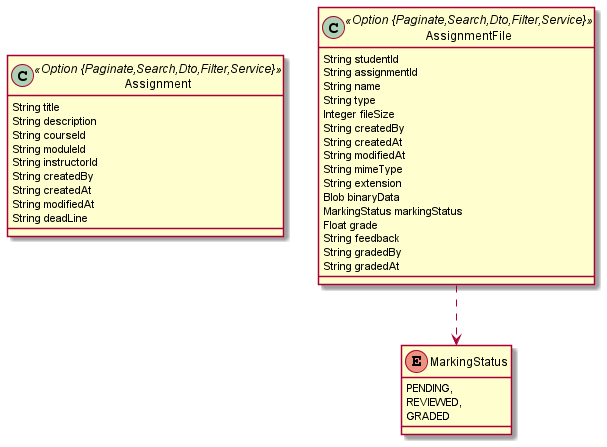
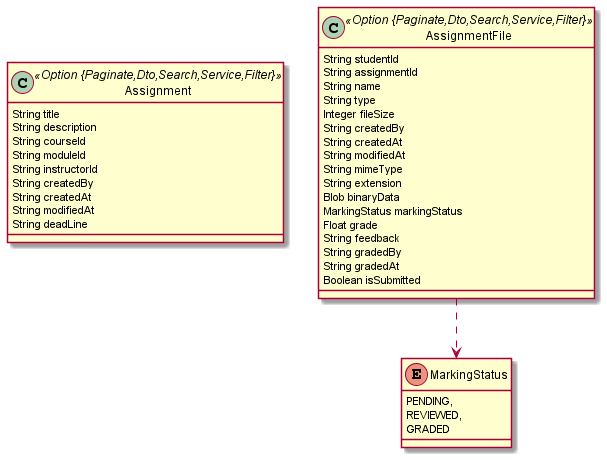
add isSubmitted field to AssignmentFile entity and update related components

Changed region(s): [[0.5041, 0.0, 1.0, 0.6689], [0.0, 0.1163, 0.4745, 0.5526], [0.6524, 0.7271, 0.86, 0.9888]]

diff --git a/src/main/webapp/app/entities/assignment-file/update/assignment-file-form.service.ts b/src/main/webapp/app/entities/assignment-file/update/assignment-file-form.service.ts
@@ -14,7 +14,7 @@ type PartialWithRequiredKeyOf<T extends { id: unknown }> = Partial<Omit<T, 'id'>
  */
 type AssignmentFileFormGroupInput = IAssignmentFile | PartialWithRequiredKeyOf<NewAssignmentFile>;
 
-type AssignmentFileFormDefaults = Pick<NewAssignmentFile, 'id'>;
+type AssignmentFileFormDefaults = Pick<NewAssignmentFile, 'id' | 'isSubmitted'>;
 
 type AssignmentFileFormGroupContent = {
   id: FormControl<IAssignmentFile['id'] | NewAssignmentFile['id']>;
@@ -35,6 +35,7 @@ type AssignmentFileFormGroupContent = {
   feedback: FormControl<IAssignmentFile['feedback']>;
   gradedBy: FormControl<IAssignmentFile['gradedBy']>;
   gradedAt: FormControl<IAssignmentFile['gradedAt']>;
+  isSubmitted: FormControl<IAssignmentFile['isSubmitted']>;
 };
 
 export type AssignmentFileFormGroup = FormGroup<AssignmentFileFormGroupContent>;
@@ -71,6 +72,7 @@ export class AssignmentFileFormService {
       feedback: new FormControl(assignmentFileRawValue.feedback),
       gradedBy: new FormControl(assignmentFileRawValue.gradedBy),
       gradedAt: new FormControl(assignmentFileRawValue.gradedAt),
+      isSubmitted: new FormControl(assignmentFileRawValue.isSubmitted),
     });
   }
 
@@ -91,6 +93,7 @@ export class AssignmentFileFormService {
   private getFormDefaults(): AssignmentFileFormDefaults {
     return {
       id: null,
+      isSubmitted: false,
     };
   }
 }

diff --git a/src/main/webapp/app/entities/assignment-file/assignment-file.test-samples.ts b/src/main/webapp/app/entities/assignment-file/assignment-file.test-samples.ts
@@ -5,15 +5,15 @@ export const sampleWithRequiredData: IAssignmentFile = {
 };
 
 export const sampleWithPartialData: IAssignmentFile = {
-  id: 'cd57164b-9d41-44c4-8dac-4dce39dbd5c8',
-  assignmentId: 'absentmindedly',
-  fileSize: 24103,
-  createdAt: 'fluffy until after',
-  mimeType: 'inwardly meanwhile joyously',
-  extension: 'hence atop sunny',
-  markingStatus: 'REVIEWED',
-  gradedBy: 'past mosh',
-  gradedAt: 'proper aw knowledgeably',
+  id: 'd57164b9-d414-4c4d-9ac4-dce39dbd5c83',
+  assignmentId: 'reword',
+  fileSize: 28871,
+  createdAt: 'peter acknowledge',
+  mimeType: 'until hence jovially',
+  extension: 'lest physically on',
+  markingStatus: 'GRADED',
+  gradedBy: 'mortar ruin',
+  gradedAt: 'except',
 };
 
 export const sampleWithFullData: IAssignmentFile = {
@@ -35,6 +35,7 @@ export const sampleWithFullData: IAssignmentFile = {
   feedback: 'consequently',
   gradedBy: 'the inside fast',
   gradedAt: 'ew',
+  isSubmitted: true,
 };
 
 export const sampleWithNewData: NewAssignmentFile = {

diff --git a/src/main/webapp/app/entities/assignment-file/list/assignment-file.component.html b/src/main/webapp/app/entities/assignment-file/list/assignment-file.component.html
@@ -193,6 +193,13 @@
                 }
               </div>
             </th>
+            <th scope="col" jhiSortBy="isSubmitted">
+              <div class="d-flex">
+                <span>Is Submitted</span>
+
+                <fa-icon class="p-1" icon="sort"></fa-icon>
+              </div>
+            </th>
             <th scope="col"></th>
           </tr>
         </thead>
@@ -220,6 +227,7 @@
               <td>{{ assignmentFile.feedback }}</td>
               <td>{{ assignmentFile.gradedBy }}</td>
               <td>{{ assignmentFile.gradedAt }}</td>
+              <td>{{ assignmentFile.isSubmitted }}</td>
               <td class="text-end">
                 <div class="btn-group">
                   <a

diff --git a/src/main/webapp/app/entities/assignment-file/update/assignment-file-update.component.html b/src/main/webapp/app/entities/assignment-file/update/assignment-file-update.component.html
@@ -149,6 +149,18 @@
           <label class="form-label" for="field_gradedAt">Graded At</label>
           <input type="text" class="form-control" name="gradedAt" id="field_gradedAt" data-cy="gradedAt" formControlName="gradedAt" />
         </div>
+
+        <div class="mb-3">
+          <label class="form-label" for="field_isSubmitted">Is Submitted</label>
+          <input
+            type="checkbox"
+            class="form-check"
+            name="isSubmitted"
+            id="field_isSubmitted"
+            data-cy="isSubmitted"
+            formControlName="isSubmitted"
+          />
+        </div>
       </div>
 
       <div>

diff --git a/src/main/webapp/app/entities/assignment-file/update/assignment-file-form.service.spec.ts b/src/main/webapp/app/entities/assignment-file/update/assignment-file-form.service.spec.ts
@@ -36,6 +36,7 @@ describe('AssignmentFile Form Service', () => {
             feedback: expect.any(Object),
             gradedBy: expect.any(Object),
             gradedAt: expect.any(Object),
+            isSubmitted: expect.any(Object),
           }),
         );
       });
@@ -62,6 +63,7 @@ describe('AssignmentFile Form Service', () => {
             feedback: expect.any(Object),
             gradedBy: expect.any(Object),
             gradedAt: expect.any(Object),
+            isSubmitted: expect.any(Object),
           }),
         );
       });

diff --git a/src/main/webapp/app/entities/assignment-file/detail/assignment-file-detail.component.html b/src/main/webapp/app/entities/assignment-file/detail/assignment-file-detail.component.html
@@ -81,6 +81,10 @@
           <dd>
             <span>{{ assignmentFileRef.gradedAt }}</span>
           </dd>
+          <dt><span>Is Submitted</span></dt>
+          <dd>
+            <span>{{ assignmentFileRef.isSubmitted }}</span>
+          </dd>
         </dl>
 
         <button type="submit" (click)="previousState()" class="btn btn-info" data-cy="entityDetailsBackButton">

diff --git a/src/main/webapp/app/entities/assignment-file/assignment-file.model.ts b/src/main/webapp/app/entities/assignment-file/assignment-file.model.ts
@@ -19,6 +19,7 @@ export interface IAssignmentFile {
   feedback?: string | null;
   gradedBy?: string | null;
   gradedAt?: string | null;
+  isSubmitted?: boolean | null;
 }
 
 export type NewAssignmentFile = Omit<IAssignmentFile, 'id'> & { id: null };

diff --git a/src/test/java/com/smartcampusmanagmentsystem/web/rest/AssignmentFileResourceIT.java b/src/test/java/com/smartcampusmanagmentsystem/web/rest/AssignmentFileResourceIT.java
@@ -89,6 +89,9 @@ class AssignmentFileResourceIT {
     private static final String DEFAULT_GRADED_AT = "AAAAAAAAAA";
     private static final String UPDATED_GRADED_AT = "BBBBBBBBBB";
 
+    private static final Boolean DEFAULT_IS_SUBMITTED = false;
+    private static final Boolean UPDATED_IS_SUBMITTED = true;
+
     private static final String ENTITY_API_URL = "/api/assignment-files";
     private static final String ENTITY_API_URL_ID = ENTITY_API_URL + "/{id}";
     private static final String ENTITY_SEARCH_API_URL = "/api/assignment-files/_search";
@@ -136,7 +139,8 @@ class AssignmentFileResourceIT {
             .grade(DEFAULT_GRADE)
             .feedback(DEFAULT_FEEDBACK)
             .gradedBy(DEFAULT_GRADED_BY)
-            .gradedAt(DEFAULT_GRADED_AT);
+            .gradedAt(DEFAULT_GRADED_AT)
+            .isSubmitted(DEFAULT_IS_SUBMITTED);
     }
 
     /**
@@ -163,7 +167,8 @@ class AssignmentFileResourceIT {
             .grade(UPDATED_GRADE)
             .feedback(UPDATED_FEEDBACK)
             .gradedBy(UPDATED_GRADED_BY)
-            .gradedAt(UPDATED_GRADED_AT);
+            .gradedAt(UPDATED_GRADED_AT)
+            .isSubmitted(UPDATED_IS_SUBMITTED);
     }
 
     @BeforeEach
@@ -289,7 +294,9 @@ class AssignmentFileResourceIT {
             .jsonPath("$.[*].gradedBy")
             .value(hasItem(DEFAULT_GRADED_BY))
             .jsonPath("$.[*].gradedAt")
-            .value(hasItem(DEFAULT_GRADED_AT));
+            .value(hasItem(DEFAULT_GRADED_AT))
+            .jsonPath("$.[*].isSubmitted")
+            .value(hasItem(DEFAULT_IS_SUBMITTED));
     }
 
     @Test
@@ -343,7 +350,9 @@ class AssignmentFileResourceIT {
             .jsonPath("$.gradedBy")
             .value(is(DEFAULT_GRADED_BY))
             .jsonPath("$.gradedAt")
-            .value(is(DEFAULT_GRADED_AT));
+            .value(is(DEFAULT_GRADED_AT))
+            .jsonPath("$.isSubmitted")
+            .value(is(DEFAULT_IS_SUBMITTED));
     }
 
     @Test
@@ -386,7 +395,8 @@ class AssignmentFileResourceIT {
             .grade(UPDATED_GRADE)
             .feedback(UPDATED_FEEDBACK)
             .gradedBy(UPDATED_GRADED_BY)
-            .gradedAt(UPDATED_GRADED_AT);
+            .gradedAt(UPDATED_GRADED_AT)
+            .isSubmitted(UPDATED_IS_SUBMITTED);
         AssignmentFileDTO assignmentFileDTO = assignmentFileMapper.toDto(updatedAssignmentFile);
 
         webTestClient
@@ -507,7 +517,8 @@ class AssignmentFileResourceIT {
             .type(UPDATED_TYPE)
             .mimeType(UPDATED_MIME_TYPE)
             .binaryData(UPDATED_BINARY_DATA)
-            .binaryDataContentType(UPDATED_BINARY_DATA_CONTENT_TYPE);
+            .binaryDataContentType(UPDATED_BINARY_DATA_CONTENT_TYPE)
+            .isSubmitted(UPDATED_IS_SUBMITTED);
 
         webTestClient
             .patch()
@@ -555,7 +566,8 @@ class AssignmentFileResourceIT {
             .grade(UPDATED_GRADE)
             .feedback(UPDATED_FEEDBACK)
             .gradedBy(UPDATED_GRADED_BY)
-            .gradedAt(UPDATED_GRADED_AT);
+            .gradedAt(UPDATED_GRADED_AT)
+            .isSubmitted(UPDATED_IS_SUBMITTED);
 
         webTestClient
             .patch()
@@ -724,7 +736,9 @@ class AssignmentFileResourceIT {
             .jsonPath("$.[*].gradedBy")
             .value(hasItem(DEFAULT_GRADED_BY))
             .jsonPath("$.[*].gradedAt")
-            .value(hasItem(DEFAULT_GRADED_AT));
+            .value(hasItem(DEFAULT_GRADED_AT))
+            .jsonPath("$.[*].isSubmitted")
+            .value(hasItem(DEFAULT_IS_SUBMITTED));
     }
 
     protected long getRepositoryCount() {

diff --git a/src/main/java/com/smartcampusmanagmentsystem/domain/AssignmentFile.java b/src/main/java/com/smartcampusmanagmentsystem/domain/AssignmentFile.java
@@ -84,6 +84,10 @@ public class AssignmentFile implements Serializable {
     @org.springframework.data.elasticsearch.annotations.Field(type = org.springframework.data.elasticsearch.annotations.FieldType.Text)
     private String gradedAt;
 
+    @Field("is_submitted")
+    @org.springframework.data.elasticsearch.annotations.Field(type = org.springframework.data.elasticsearch.annotations.FieldType.Boolean)
+    private Boolean isSubmitted;
+
     // jhipster-needle-entity-add-field - JHipster will add fields here
 
     public String getId() {
@@ -320,6 +324,19 @@ public class AssignmentFile implements Serializable {
         this.gradedAt = gradedAt;
     }
 
+    public Boolean getIsSubmitted() {
+        return this.isSubmitted;
+    }
+
+    public AssignmentFile isSubmitted(Boolean isSubmitted) {
+        this.setIsSubmitted(isSubmitted);
+        return this;
+    }
+
+    public void setIsSubmitted(Boolean isSubmitted) {
+        this.isSubmitted = isSubmitted;
+    }
+
     // jhipster-needle-entity-add-getters-setters - JHipster will add getters and setters here
 
     @Override
@@ -361,6 +378,7 @@ public class AssignmentFile implements Serializable {
             ", feedback='" + getFeedback() + "'" +
             ", gradedBy='" + getGradedBy() + "'" +
             ", gradedAt='" + getGradedAt() + "'" +
+            ", isSubmitted='" + getIsSubmitted() + "'" +
             "}";
     }
 }

diff --git a/src/main/java/com/smartcampusmanagmentsystem/service/dto/AssignmentFileDTO.java b/src/main/java/com/smartcampusmanagmentsystem/service/dto/AssignmentFileDTO.java
@@ -46,6 +46,8 @@ public class AssignmentFileDTO implements Serializable {
 
     private String gradedAt;
 
+    private Boolean isSubmitted;
+
     public String getId() {
         return id;
     }
@@ -190,6 +192,14 @@ public class AssignmentFileDTO implements Serializable {
         this.gradedAt = gradedAt;
     }
 
+    public Boolean getIsSubmitted() {
+        return isSubmitted;
+    }
+
+    public void setIsSubmitted(Boolean isSubmitted) {
+        this.isSubmitted = isSubmitted;
+    }
+
     @Override
     public boolean equals(Object o) {
         if (this == o) {
@@ -232,6 +242,7 @@ public class AssignmentFileDTO implements Serializable {
             ", feedback='" + getFeedback() + "'" +
             ", gradedBy='" + getGradedBy() + "'" +
             ", gradedAt='" + getGradedAt() + "'" +
+            ", isSubmitted='" + getIsSubmitted() + "'" +
             "}";
     }
 }

diff --git a/src/test/java/com/smartcampusmanagmentsystem/domain/AssignmentFileAsserts.java b/src/test/java/com/smartcampusmanagmentsystem/domain/AssignmentFileAsserts.java
@@ -65,7 +65,8 @@ public class AssignmentFileAsserts {
             .satisfies(a -> assertThat(a.getGrade()).as("check grade").isEqualTo(expected.getGrade()))
             .satisfies(a -> assertThat(a.getFeedback()).as("check feedback").isEqualTo(expected.getFeedback()))
             .satisfies(a -> assertThat(a.getGradedBy()).as("check gradedBy").isEqualTo(expected.getGradedBy()))
-            .satisfies(a -> assertThat(a.getGradedAt()).as("check gradedAt").isEqualTo(expected.getGradedAt()));
+            .satisfies(a -> assertThat(a.getGradedAt()).as("check gradedAt").isEqualTo(expected.getGradedAt()))
+            .satisfies(a -> assertThat(a.getIsSubmitted()).as("check isSubmitted").isEqualTo(expected.getIsSubmitted()));
     }
 
     /**
